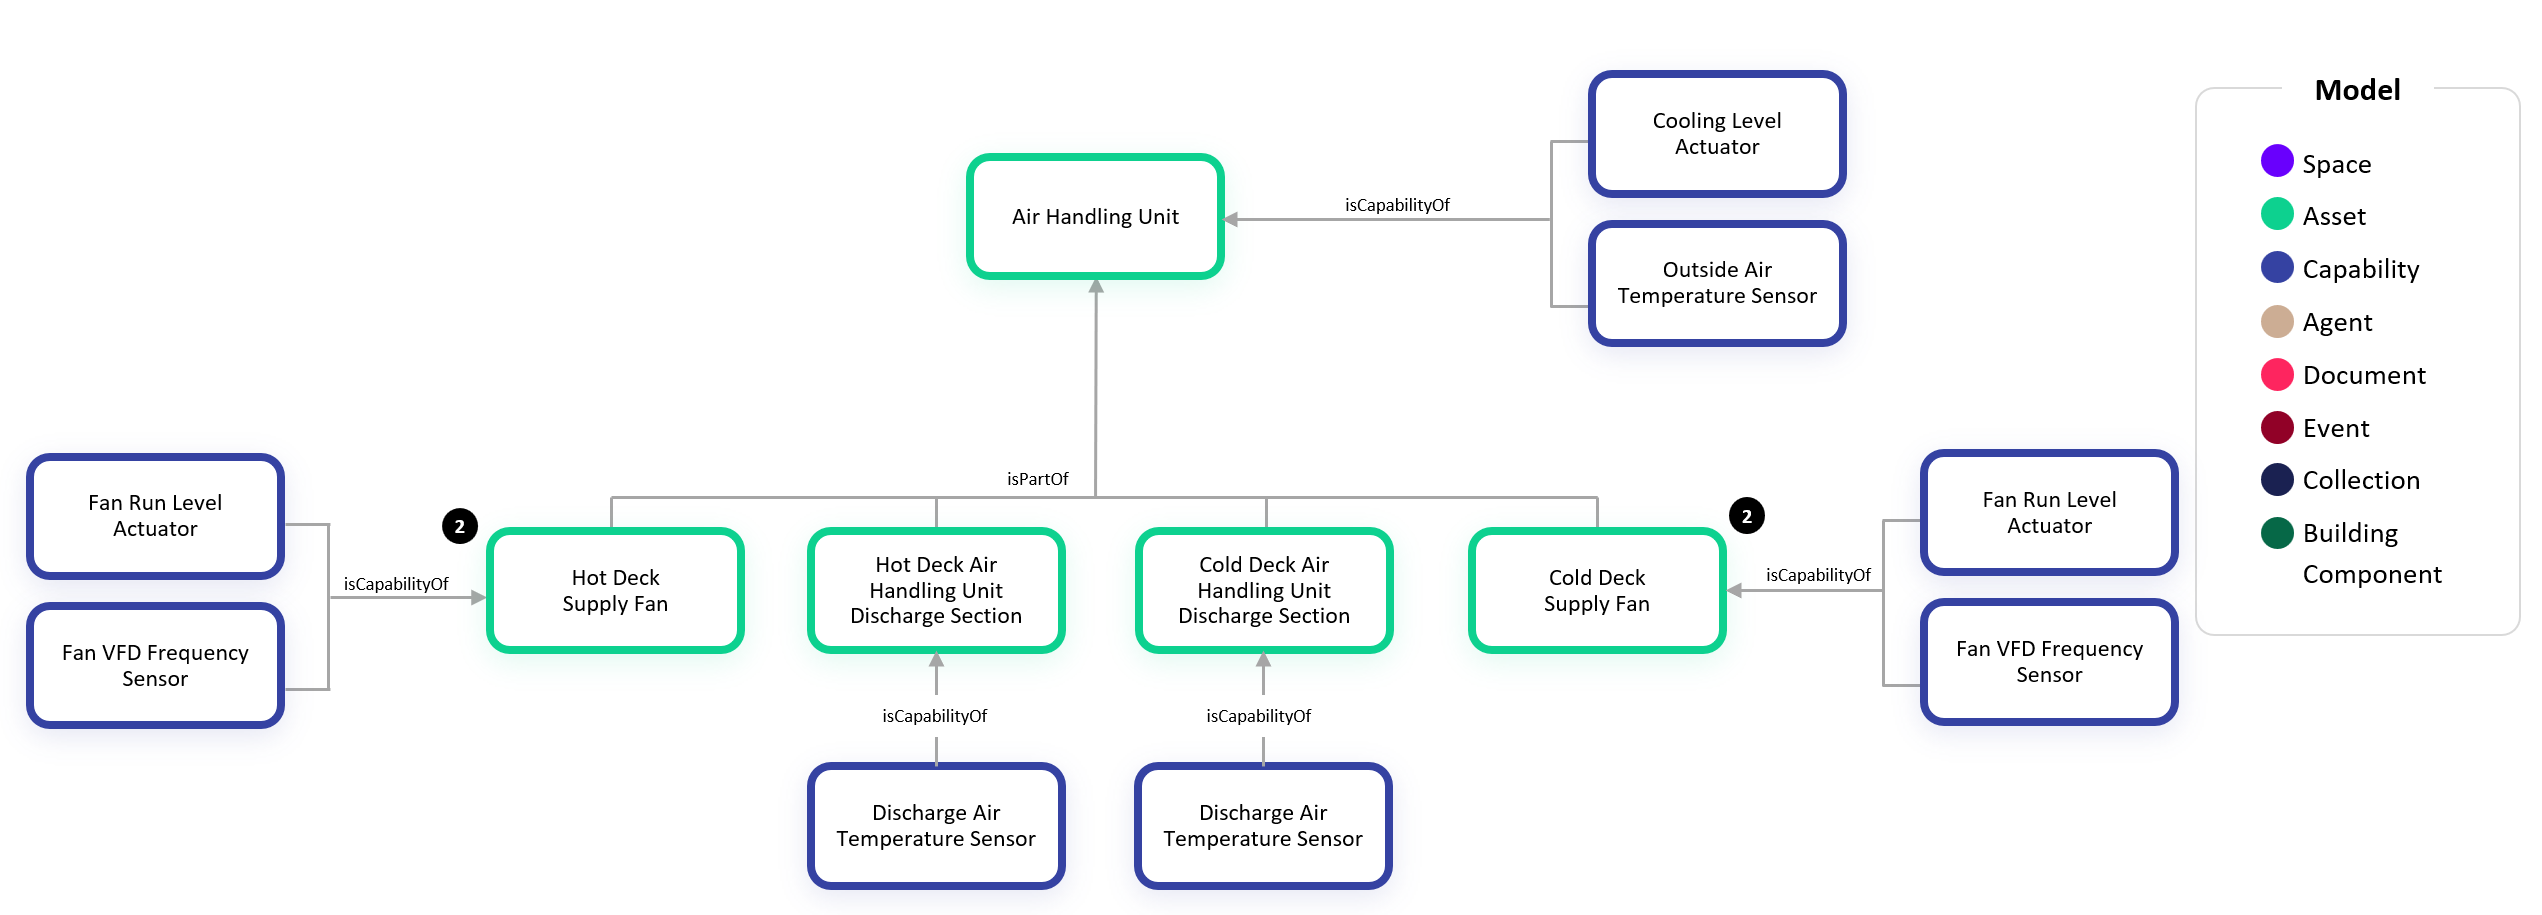
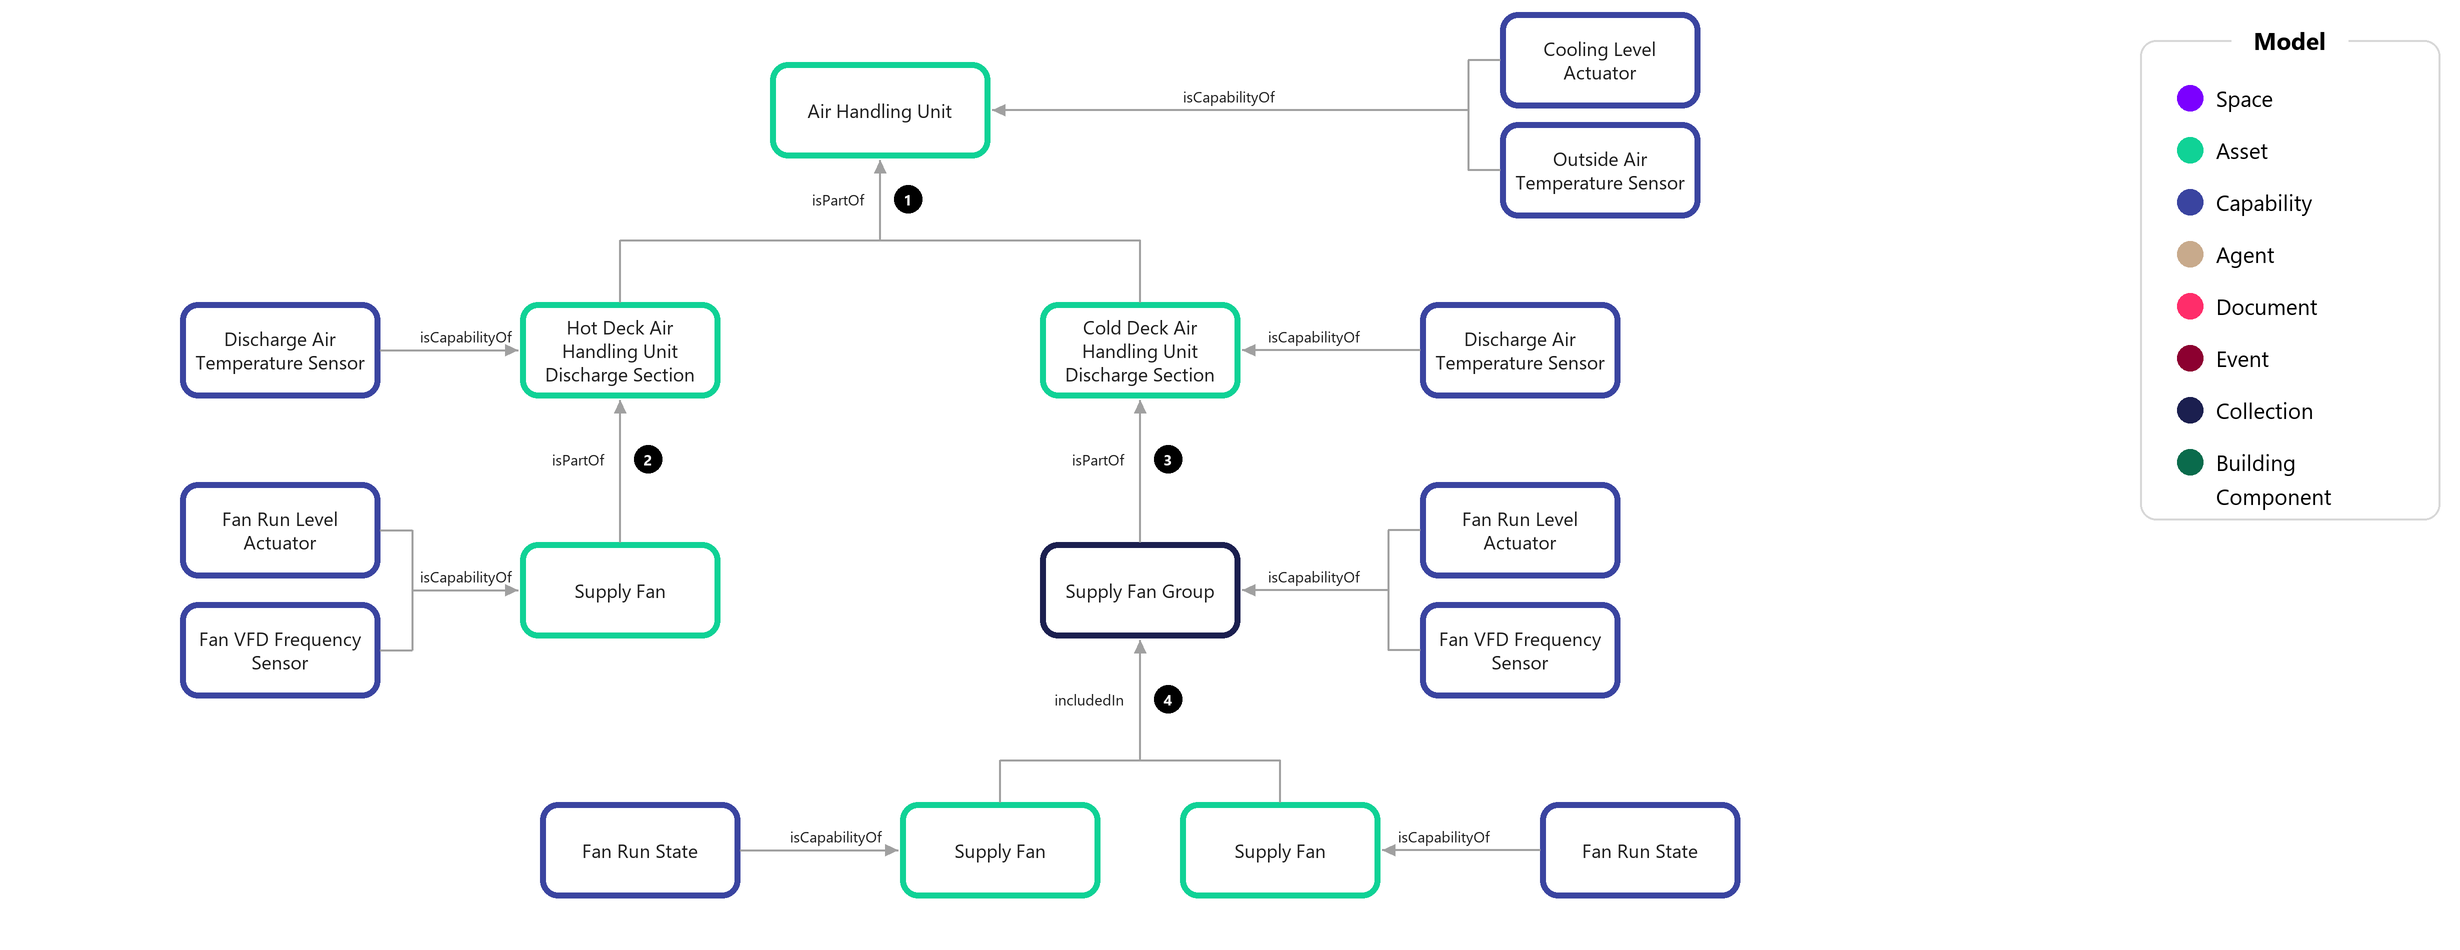
Dual supply fan AHU: each deck's fan is a component of its discharge section
The Dual Supply Fan AHU sample showed Hot Deck Supply Fan and Cold Deck
Supply Fan as siblings of the discharge sections, isPartOf the AHU. A
survey of live twins found no consistent pattern across sites, so the
standard is now: each deck's fan is a plain Supply Fan isPartOf its Hot or
Cold Deck AHU Discharge Section, or a Supply Fan Group isPartOf the section
(fans includedIn the group) where the deck has an array. The sections stay
isPartOf the AHU. The deck-specific fan models are not used; the deck is
given by the parent section. Single-fan dual duct AHUs are unchanged.

Diagram is now generated from Samples/Images/Source/HVACDualDuctAHU-Example2.py.

diff --git a/Samples/Images/Source/HVACDualDuctAHU-Example2.py b/Samples/Images/Source/HVACDualDuctAHU-Example2.py
@@ -1,0 +1,187 @@
+"""Renders Samples/Images/HVACDualDuctAHU-Example2.png.
+
+Dual duct AHU with a supply fan per deck: each deck's fan is a component of its
+discharge section, not of the AHU. The Hot Deck section has a single Supply Fan
+(isPartOf the section); the Cold Deck section has a fan array, modeled as a Supply
+Fan Group isPartOf the section with each Supply Fan includedIn the group. Both
+discharge sections are isPartOf the AHU.
+
+    python Samples/Images/Source/HVACDualDuctAHU-Example2.py
+
+Requires Pillow. Uses Segoe UI when available, otherwise DejaVu Sans.
+"""
+import math
+import os
+
+from PIL import Image, ImageDraw, ImageFont
+
+S = 2  # supersampling factor; drawn at 2x, downscaled at the end
+W, H = 2460, 950
+
+SPACE = (123, 0, 255)
+ASSET = (16, 210, 150)
+CAPABILITY = (58, 68, 160)
+COLLECTION = (27, 31, 79)
+LINE = (160, 160, 160)
+TEXT = (30, 30, 30)
+LEGEND = [
+    ("Space", SPACE),
+    ("Asset", ASSET),
+    ("Capability", CAPABILITY),
+    ("Agent", (200, 170, 140)),
+    ("Document", (255, 45, 106)),
+    ("Event", (140, 0, 48)),
+    ("Collection", COLLECTION),
+    ("Building\nComponent", (10, 107, 76)),
+]
+
+HERE = os.path.dirname(os.path.abspath(__file__))
+OUT = os.path.join(HERE, "..", "HVACDualDuctAHU-Example2.png")
+
+
+def font(size, bold=False):
+    names = ["segoeuib.ttf", "DejaVuSans-Bold.ttf"] if bold else ["segoeui.ttf", "DejaVuSans.ttf"]
+    dirs = ["C:/Windows/Fonts", os.path.expanduser("~/AppData/Local/Microsoft/Windows/Fonts"),
+            "/usr/share/fonts/truetype/dejavu", ""]
+    for name in names:
+        for d in dirs:
+            try:
+                return ImageFont.truetype(os.path.join(d, name), size * S)
+            except OSError:
+                pass
+    return ImageFont.load_default()
+
+
+BOX_FONT = font(19)
+LABEL_FONT = font(15)
+CALLOUT_FONT = font(15, bold=True)
+LEGEND_FONT = font(22)
+LEGEND_TITLE = font(24, bold=True)
+
+img = Image.new("RGB", (W * S, H * S), "white")
+d = ImageDraw.Draw(img)
+
+
+def s(*v):
+    return [x * S for x in v]
+
+
+def box(cx, cy, text, color, w=200, h=96):
+    x0, y0, x1, y1 = cx - w / 2, cy - h / 2, cx + w / 2, cy + h / 2
+    d.rounded_rectangle(s(x0, y0, x1, y1), radius=18 * S, fill="white", outline=color, width=6 * S)
+    d.multiline_text(s(cx, cy), text, font=BOX_FONT, fill=TEXT, anchor="mm", align="center", spacing=3 * S)
+    return dict(l=x0, r=x1, t=y0, b=y1, cx=cx, cy=cy)
+
+
+def line(*pts):
+    d.line(s(*pts), fill=LINE, width=2 * S, joint="curve")
+
+
+def arrow(x0, y0, x1, y1):
+    line(x0, y0, x1, y1)
+    a = math.atan2(y1 - y0, x1 - x0)
+    L, w = 13, 6
+    p1 = (x1 - L * math.cos(a) + w * math.sin(a), y1 - L * math.sin(a) - w * math.cos(a))
+    p2 = (x1 - L * math.cos(a) - w * math.sin(a), y1 - L * math.sin(a) + w * math.cos(a))
+    d.polygon(s(x1, y1, *p1, *p2), fill=LINE)
+
+
+def label(x, y, text, anchor="mm"):
+    d.multiline_text(s(x, y), text, font=LABEL_FONT, fill=TEXT, anchor=anchor, align="center", spacing=4 * S)
+
+
+def callout(x, y, n):
+    r = 14
+    d.ellipse(s(x - r, y - r, x + r, y + r), fill="black")
+    d.text(s(x, y), str(n), font=CALLOUT_FONT, fill="white", anchor="mm")
+
+
+def capabilities_of(target, caps, side, num=None):
+    """caps are boxes on `side` ('left'/'right') of target; bracket and arrow into target."""
+    if side == "left":
+        bx = caps[0]["r"] + 32
+        for c in caps:
+            line(c["r"], c["cy"], bx, c["cy"])
+        line(bx, caps[0]["cy"], bx, caps[-1]["cy"])
+        arrow(bx, target["cy"], target["l"] - 2, target["cy"])
+        label((bx + target["l"]) / 2, target["cy"] - 14, "isCapabilityOf")
+        if num:
+            callout(target["l"] - 32, target["t"] + 8, num)
+    else:
+        bx = caps[0]["l"] - 32
+        for c in caps:
+            line(c["l"], c["cy"], bx, c["cy"])
+        line(bx, caps[0]["cy"], bx, caps[-1]["cy"])
+        arrow(bx, target["cy"], target["r"] + 2, target["cy"])
+        label((bx + target["r"]) / 2, target["cy"] - 14, "isCapabilityOf")
+        if num:
+            callout(target["r"] + 32, target["t"] + 8, num)
+
+
+def related_up(sources, target, bus_y, text, num=None):
+    """sources (below) <text> target (above): verticals up to a bus, one arrow into target."""
+    for c in sources:
+        line(c["cx"], c["t"], c["cx"], bus_y)
+    if len(sources) > 1:
+        line(sources[0]["cx"], bus_y, sources[-1]["cx"], bus_y)
+    arrow(target["cx"], bus_y, target["cx"], target["b"] + 2)
+    my = (bus_y + target["b"]) / 2
+    label(target["cx"] - 16, my, text, anchor="rm")
+    if num:
+        callout(target["cx"] + 28, my, num)
+
+
+# --- AHU and its own capabilities ---------------------------------------------
+ahu = box(880, 110, "Air Handling Unit", ASSET, w=220)
+capabilities_of(ahu, [
+    box(1600, 60, "Cooling Level\nActuator", CAPABILITY),
+    box(1600, 170, "Outside Air\nTemperature Sensor", CAPABILITY),
+], "right")
+
+# --- discharge sections isPartOf AHU ------------------------------------------
+hot = box(620, 350, "Hot Deck Air\nHandling Unit\nDischarge Section", ASSET)
+cold = box(1140, 350, "Cold Deck Air\nHandling Unit\nDischarge Section", ASSET)
+related_up([hot, cold], ahu, 240, "isPartOf", num=1)
+capabilities_of(hot, [box(280, 350, "Discharge Air\nTemperature Sensor", CAPABILITY)], "left")
+capabilities_of(cold, [box(1520, 350, "Discharge Air\nTemperature Sensor", CAPABILITY)], "right")
+
+# --- hot deck: single Supply Fan isPartOf the section -------------------------
+hot_fan = box(620, 590, "Supply Fan", ASSET)
+related_up([hot_fan], hot, 520, "isPartOf", num=2)
+capabilities_of(hot_fan, [
+    box(280, 530, "Fan Run Level\nActuator", CAPABILITY),
+    box(280, 650, "Fan VFD Frequency\nSensor", CAPABILITY),
+], "left")
+
+# --- cold deck: fan array as a Supply Fan Group isPartOf the section ----------
+group = box(1140, 590, "Supply Fan Group", COLLECTION)
+related_up([group], cold, 520, "isPartOf", num=3)
+capabilities_of(group, [
+    box(1520, 530, "Fan Run Level\nActuator", CAPABILITY),
+    box(1520, 650, "Fan VFD Frequency\nSensor", CAPABILITY),
+], "right")
+
+fan1 = box(1000, 850, "Supply Fan", ASSET)
+fan2 = box(1280, 850, "Supply Fan", ASSET)
+related_up([fan1, fan2], group, 760, "includedIn", num=4)
+capabilities_of(fan1, [box(640, 850, "Fan Run State", CAPABILITY)], "left")
+capabilities_of(fan2, [box(1640, 850, "Fan Run State", CAPABILITY)], "right")
+
+# --- legend -------------------------------------------------------------------
+lx0, ly0, lx1, ly1 = 2140, 40, 2440, 520
+d.rounded_rectangle(s(lx0, ly0, lx1, ly1), radius=16 * S, outline=(215, 215, 215), width=2 * S)
+tw = d.textlength("Model", font=LEGEND_TITLE) / S
+tx = (lx0 + lx1) / 2
+d.rectangle(s(tx - tw / 2 - 22, ly0 - 4, tx + tw / 2 + 22, ly0 + 4), fill="white")
+d.text(s(tx, ly0), "Model", font=LEGEND_TITLE, fill="black", anchor="mm")
+y = ly0 + 58
+for name, color in LEGEND:
+    d.ellipse(s(lx0 + 50 - 13, y - 13, lx0 + 50 + 13, y + 13), fill=color)
+    d.multiline_text(s(lx0 + 76, y), name, font=LEGEND_FONT, fill="black", anchor="lm", spacing=10 * S) \
+        if "\n" not in name else d.multiline_text(s(lx0 + 76, y - 15), name, font=LEGEND_FONT, fill="black",
+                                                   anchor="la", spacing=10 * S)
+    y += 52
+
+out = img.resize((W, H), Image.LANCZOS)
+out.save(os.path.abspath(OUT), optimize=True)
+print("wrote", os.path.abspath(OUT))

diff --git a/Samples/03-HVAC.md b/Samples/03-HVAC.md
@@ -86,7 +86,15 @@ Every example in this document follows the same rule for zone air sensors and se
 
 ![HVACDualDuctAHU-Example2](Images/HVACDualDuctAHU-Example2.png)
 
-1. In this example, we show how to configure a Dual Duct Air Handling Unit which has two Supply Fans, one for each discharge section. In this case, we have a Cold Deck Supply Fan and a Hot Deck Supply Fan in addition to the Hot and Cold Deck AHU Discharge Sections.
+1. In this example, we show how to configure a Dual Duct Air Handling Unit which has a separate supply fan for each deck. The Hot and Cold Deck AHU Discharge Sections each have an isPartOf relationship to the AHU, as in the single fan example above.
+
+2. Each deck's fan is a component of its discharge section rather than of the AHU. The Hot Deck fan is a Supply Fan with an isPartOf relationship to the Hot Deck AHU Discharge Section, and carries its own capabilities such as the Fan Run Level Actuator and Fan VFD Frequency Sensor. The fan uses the plain Supply Fan model: the deck it serves is given by the section it is part of, so the Hot Deck Supply Fan and Cold Deck Supply Fan models are not used.
+
+3. Where a deck has more than one fan, the fans are modeled as a Supply Fan Group with an isPartOf relationship to that deck's discharge section, following AHU Fan Arrays below. Here the Cold Deck has two fans, and the Supply Fan Group holds their common Fan Run Level Actuator and Fan VFD Frequency Sensor.
+
+4. Each Supply Fan in the array is includedIn the Supply Fan Group and carries its own Fan Run State.
+
+5. A Dual Duct AHU with a single Supply Fan serving both decks keeps that fan on the AHU, as in the single fan example above. The fan belongs to a section only when it serves that section alone.
 
 ### Dual Duct VAV Box
 
